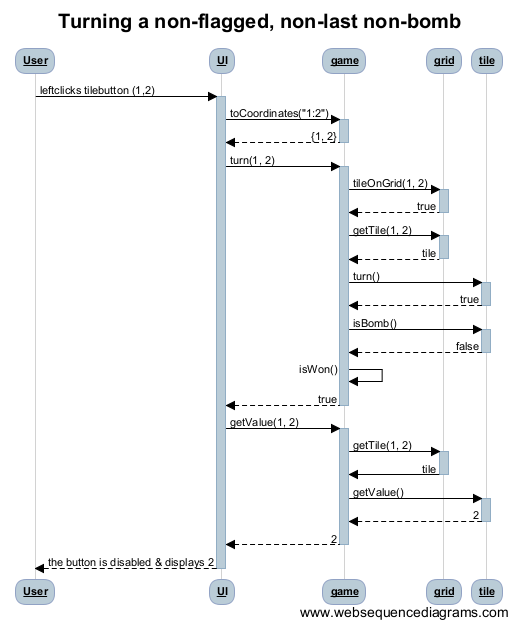
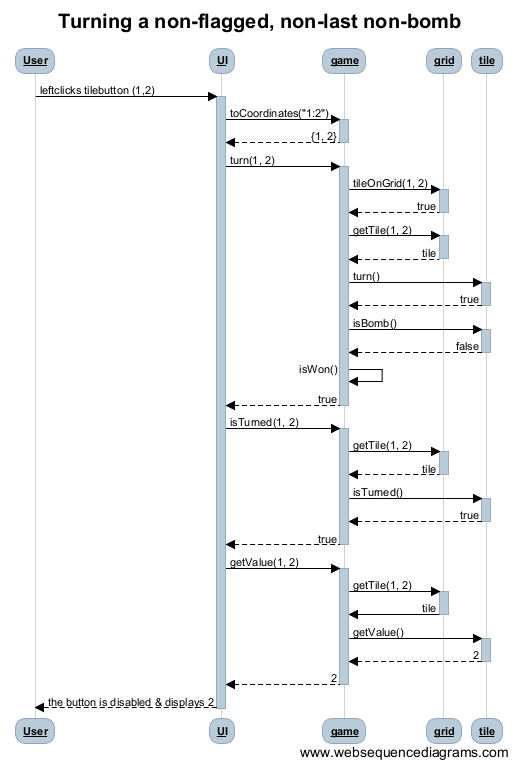
Added an isTurned-check

diff --git a/minesweeper/src/main/java/ohha/minesweeper/ui/TurnListener.java b/minesweeper/src/main/java/ohha/minesweeper/ui/TurnListener.java
@@ -22,14 +22,13 @@ public class TurnListener implements ActionListener {
         this.gui = gui;
         this.first = true;
     }
-    
-    //stuff here or 'repaint'(?) grid or sthg? (especially if 0 -> turn surrounding)
 
+    //stuff here or 'repaint'(?) grid or sthg? (especially if 0 -> turn surrounding)
     @Override
     public void actionPerformed(ActionEvent e) {
         String command = e.getActionCommand();
         int[] coordinates = game.toCoordinates(command);
-        if(first) {
+        if (first) {
             statusdisplay.setText("Playing");
             first = false;
         }
@@ -40,9 +39,10 @@ public class TurnListener implements ActionListener {
                 statusdisplay.setText("You lost");
             }
             gui.newGame(statusdisplay);
+        } else if (game.isTurned(coordinates[0], coordinates[1])) {
+            button.setText(String.valueOf(game.getValue(coordinates[0], coordinates[1])));
+            button.setEnabled(false);
         }
-        button.setText(String.valueOf(game.getValue(coordinates[0], coordinates[1])));
-        button.setEnabled(false);
     }
 
 }
